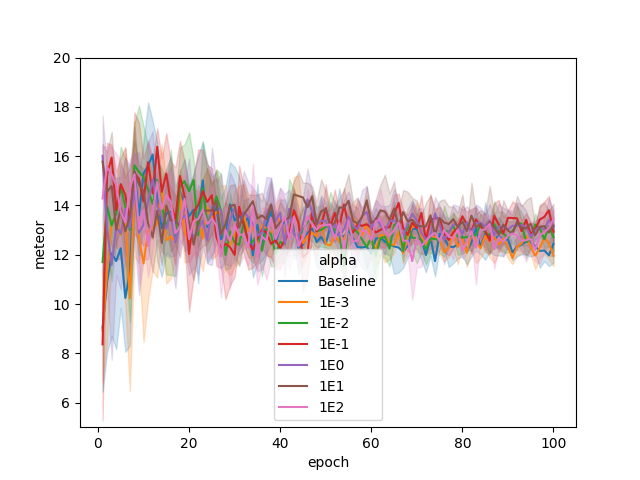
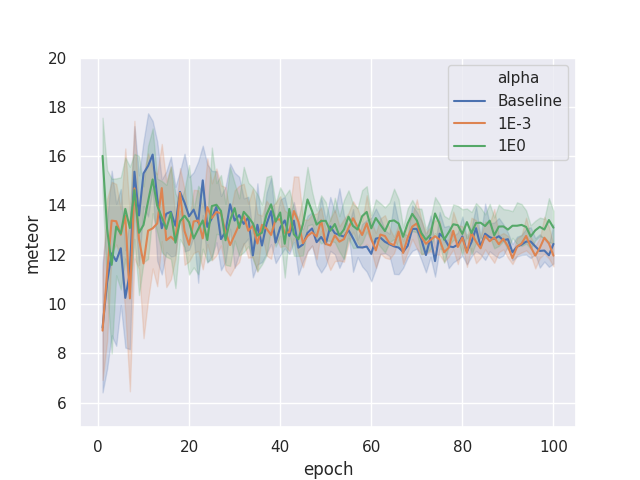
plot

diff --git a/Utils/plot_values.py b/Utils/plot_values.py
@@ -1,4 +1,5 @@
 import seaborn as sns
+sns.set()
 import pandas as pd
 import csv
 import os
@@ -11,7 +12,7 @@ args = parser.parse_args()
 
 # requires csv with headers alpha values, epochs, meteor
 def createData(dataset): # alpha->exp mapping {1:'1E-1',2:'1E-3'}
-    mapdict = {2:'Baseline', 1: '1E-3', 0: '1E-2',3: '1E-1', 4: '1E0', 5:'1E1', 6:'1E2'}
+    mapdict = {2:'Baseline', 1:'1E-3',4:'1E0'}#{2:'Baseline', 1: '1E-3', 0: '1E-2',3: '1E-1', 4: '1E0', 5:'1E1', 6:'1E2'}
     seeds = [100,101,102,103,104]
     fieldnames=['alpha','epoch','meteor']
     target = open("results.csv", "w")
@@ -33,7 +34,7 @@ def createData(dataset): # alpha->exp mapping {1:'1E-1',2:'1E-3'}
                         ep+=1
     target.close()
 
-def createGraph(yrange=[4,40], filename = 'results.csv'):
+def createGraph(yrange=[5,20], filename = 'results.csv'):
     plt.ylim(yrange[0],yrange[1])
     sns.lineplot(x = 'epoch', y ='meteor', hue = 'alpha',data = pd.read_csv(filename))
     plt.savefig('plot.png')
